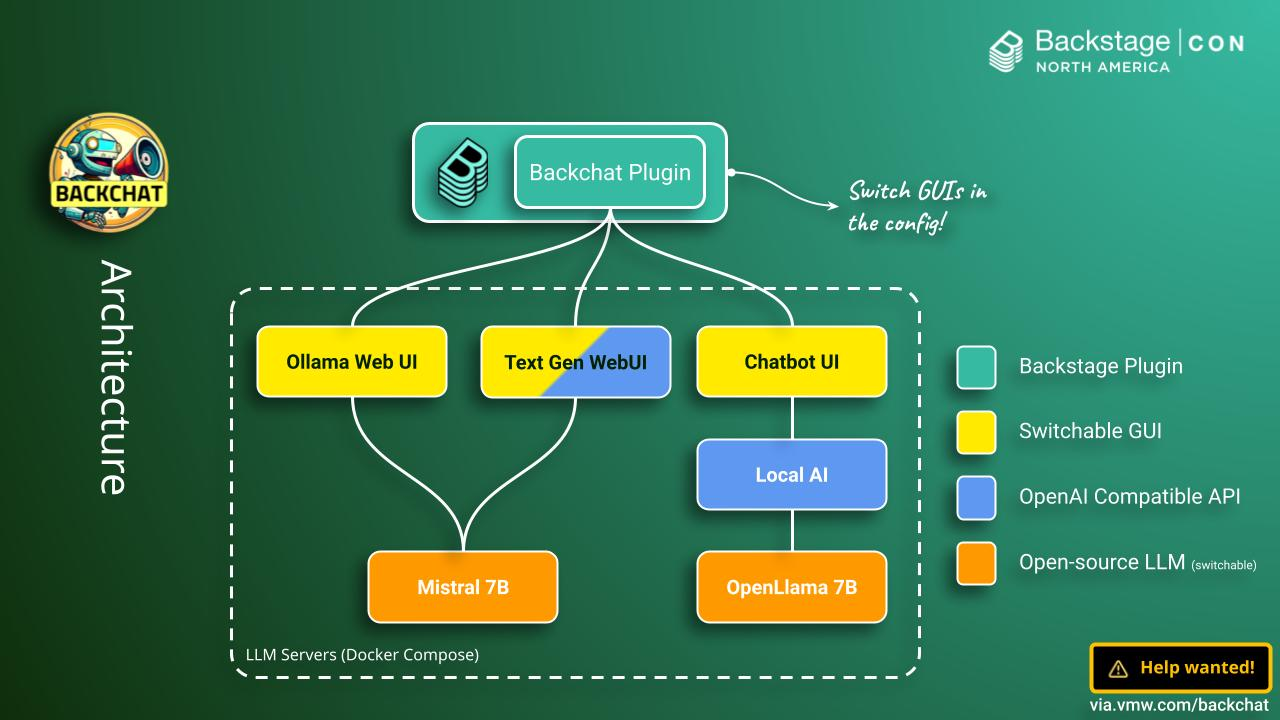
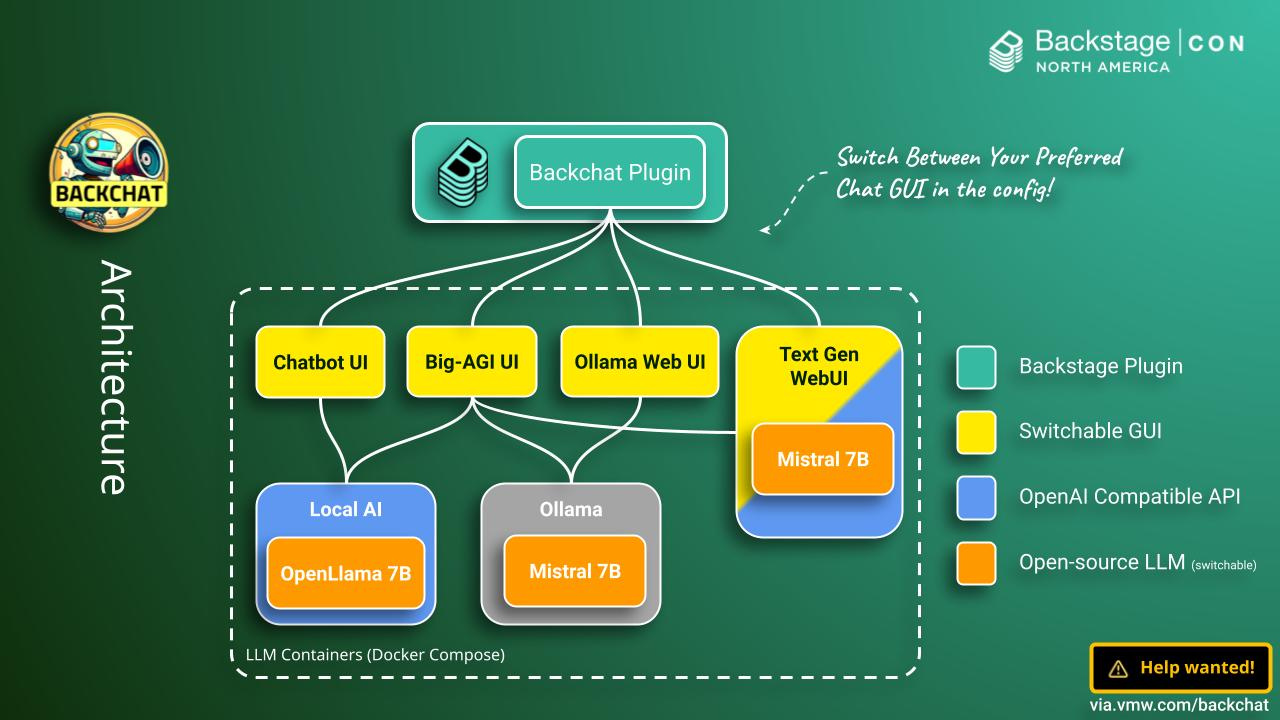
Adding Big-AGI details to updated README.

diff --git a/README.md b/README.md
@@ -137,23 +137,29 @@ Now you have integrated the Backchat plugin, started Backstage, and started your
 
 As you have a choice of which AI system you integrate using Backchat, here is some information to help you decide.
 
+### ChatBot UI and LocalAI Server
+
+The original (and default) choice. ChatBotUI and LocalAI has a nice look and feel. The ChatbotUI project is a bit dated now and the LocalAI server can be a challenge to understand when it comes to model loading and swapping, but overall the combination looks great for PoCs.
+
+<figure><img src="./img/chatbotui.png" alt="The Backchat plugin after integration with ChatbotUI" width="640px" height="360px"><figcaption>Exposing <a href="https://github.com/mckaywrigley/chatbot-ui">ChatBotUI</a> in the Backstage GUI.</figcaption></figure>
+
 ### Ollama Web UI and Ollama
 
 This client server combination is possibly the easiest to get started with. It features a built in model downloader with access to lots of models, switches between models easily, loads the default model automatically, and has a nice Chat interface that resembles ChatGPT. Try it!
 
 <figure><img src="./img/ollamawebui.png" alt="The Backchat plugin after integration with Ollama web UI" width="640px"><figcaption>Exposing <a href="https://github.com/mckaywrigley/chatbot-ui">Ollama Web UI</a> in the Backstage GUI.</figcaption></figure>
 
-### ChatBot UI and LocalAI Server
-
-ChatBotUI and LocalAI has a nice look and feel. The ChatbotUI project is a bit dated now and the LocalAI server can be a challenge to understand when it comes to model loading and swapping, but overall the combination looks great for PoCs.
-
-<figure><img src="./img/chatbotui.png" alt="The Backchat plugin after integration with ChatbotUI" width="640px" height="360px"><figcaption>Exposing <a href="https://github.com/mckaywrigley/chatbot-ui">ChatBotUI</a> in the Backstage GUI.</figcaption></figure>
-
 ### Text Generation Web UI (GUI and Server)
 
 The Text Gen Web UI has a lot of features - which can make it seem daunting at first. But, the "chat" features is very simple to use and it has a great model download / load workflow and works well with Mistral. Just don't for get to "Load" your model before starting your chat session.
 
 <figure><img src="./img/textgenwebui.png" alt="The Backchat plugin after integration with TextGenWebUI" width="640px" height="360px"><figcaption>Exposing <a href="https://github.com/oobabooga/text-generation-webui">Text Gen Web UI</a> in the Backstage GUI.</figcaption></figure>
+
+### Big-AGI UI (GUI Compatible With Multiple Servers)
+
+Big AGI is a web client for multiple LLM API servers and services. It can talk to LocalAI server, Text Gen Web UI server (Oobabooga) and Ollama server. It can have all these servers configured at the same time and switch easily between them using the model selector in the GUI. It has a number of useful configuration options and offers suggested "personas" which you can switch between.
+
+<figure><img src="./img/big-agi-ui.png" alt="The Backchat plugin after integration with Ollama web UI" width="640px"><figcaption>Exposing <a href="https://github.com/enricoros/big-agi">Big-AGI Web UI</a> in the Backstage GUI.</figcaption></figure>
 
 ## And Finally...
 
